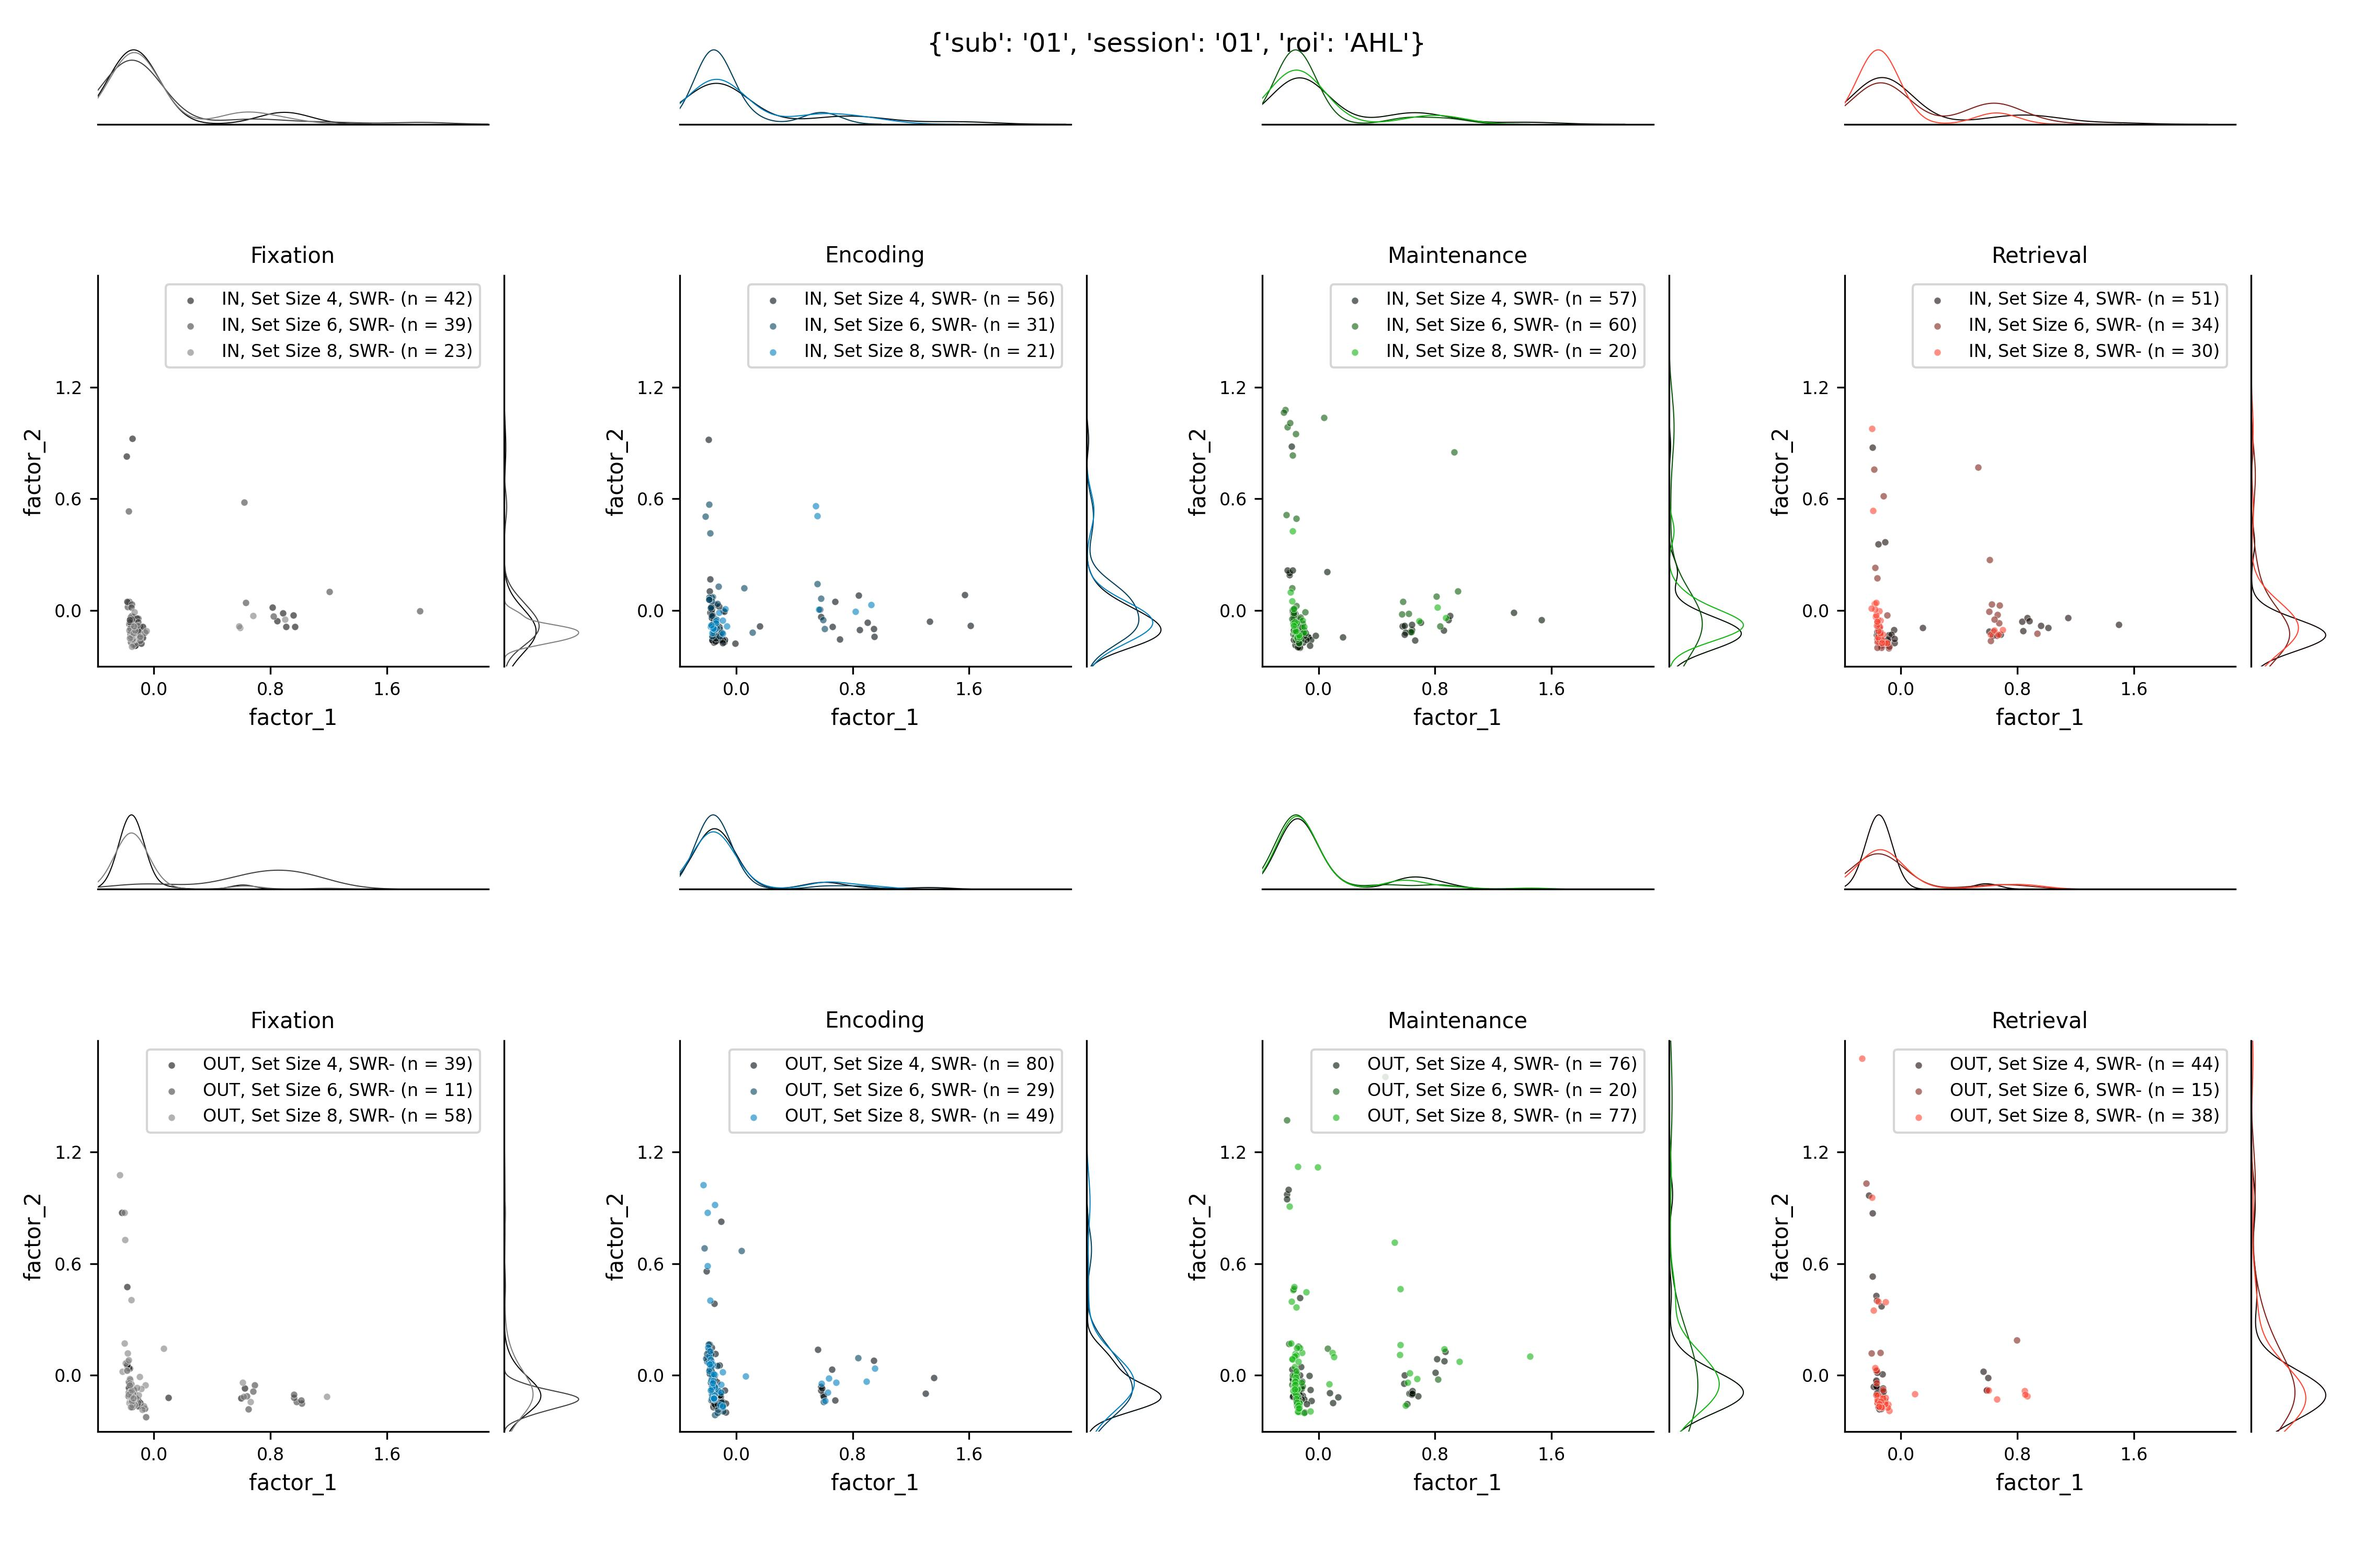
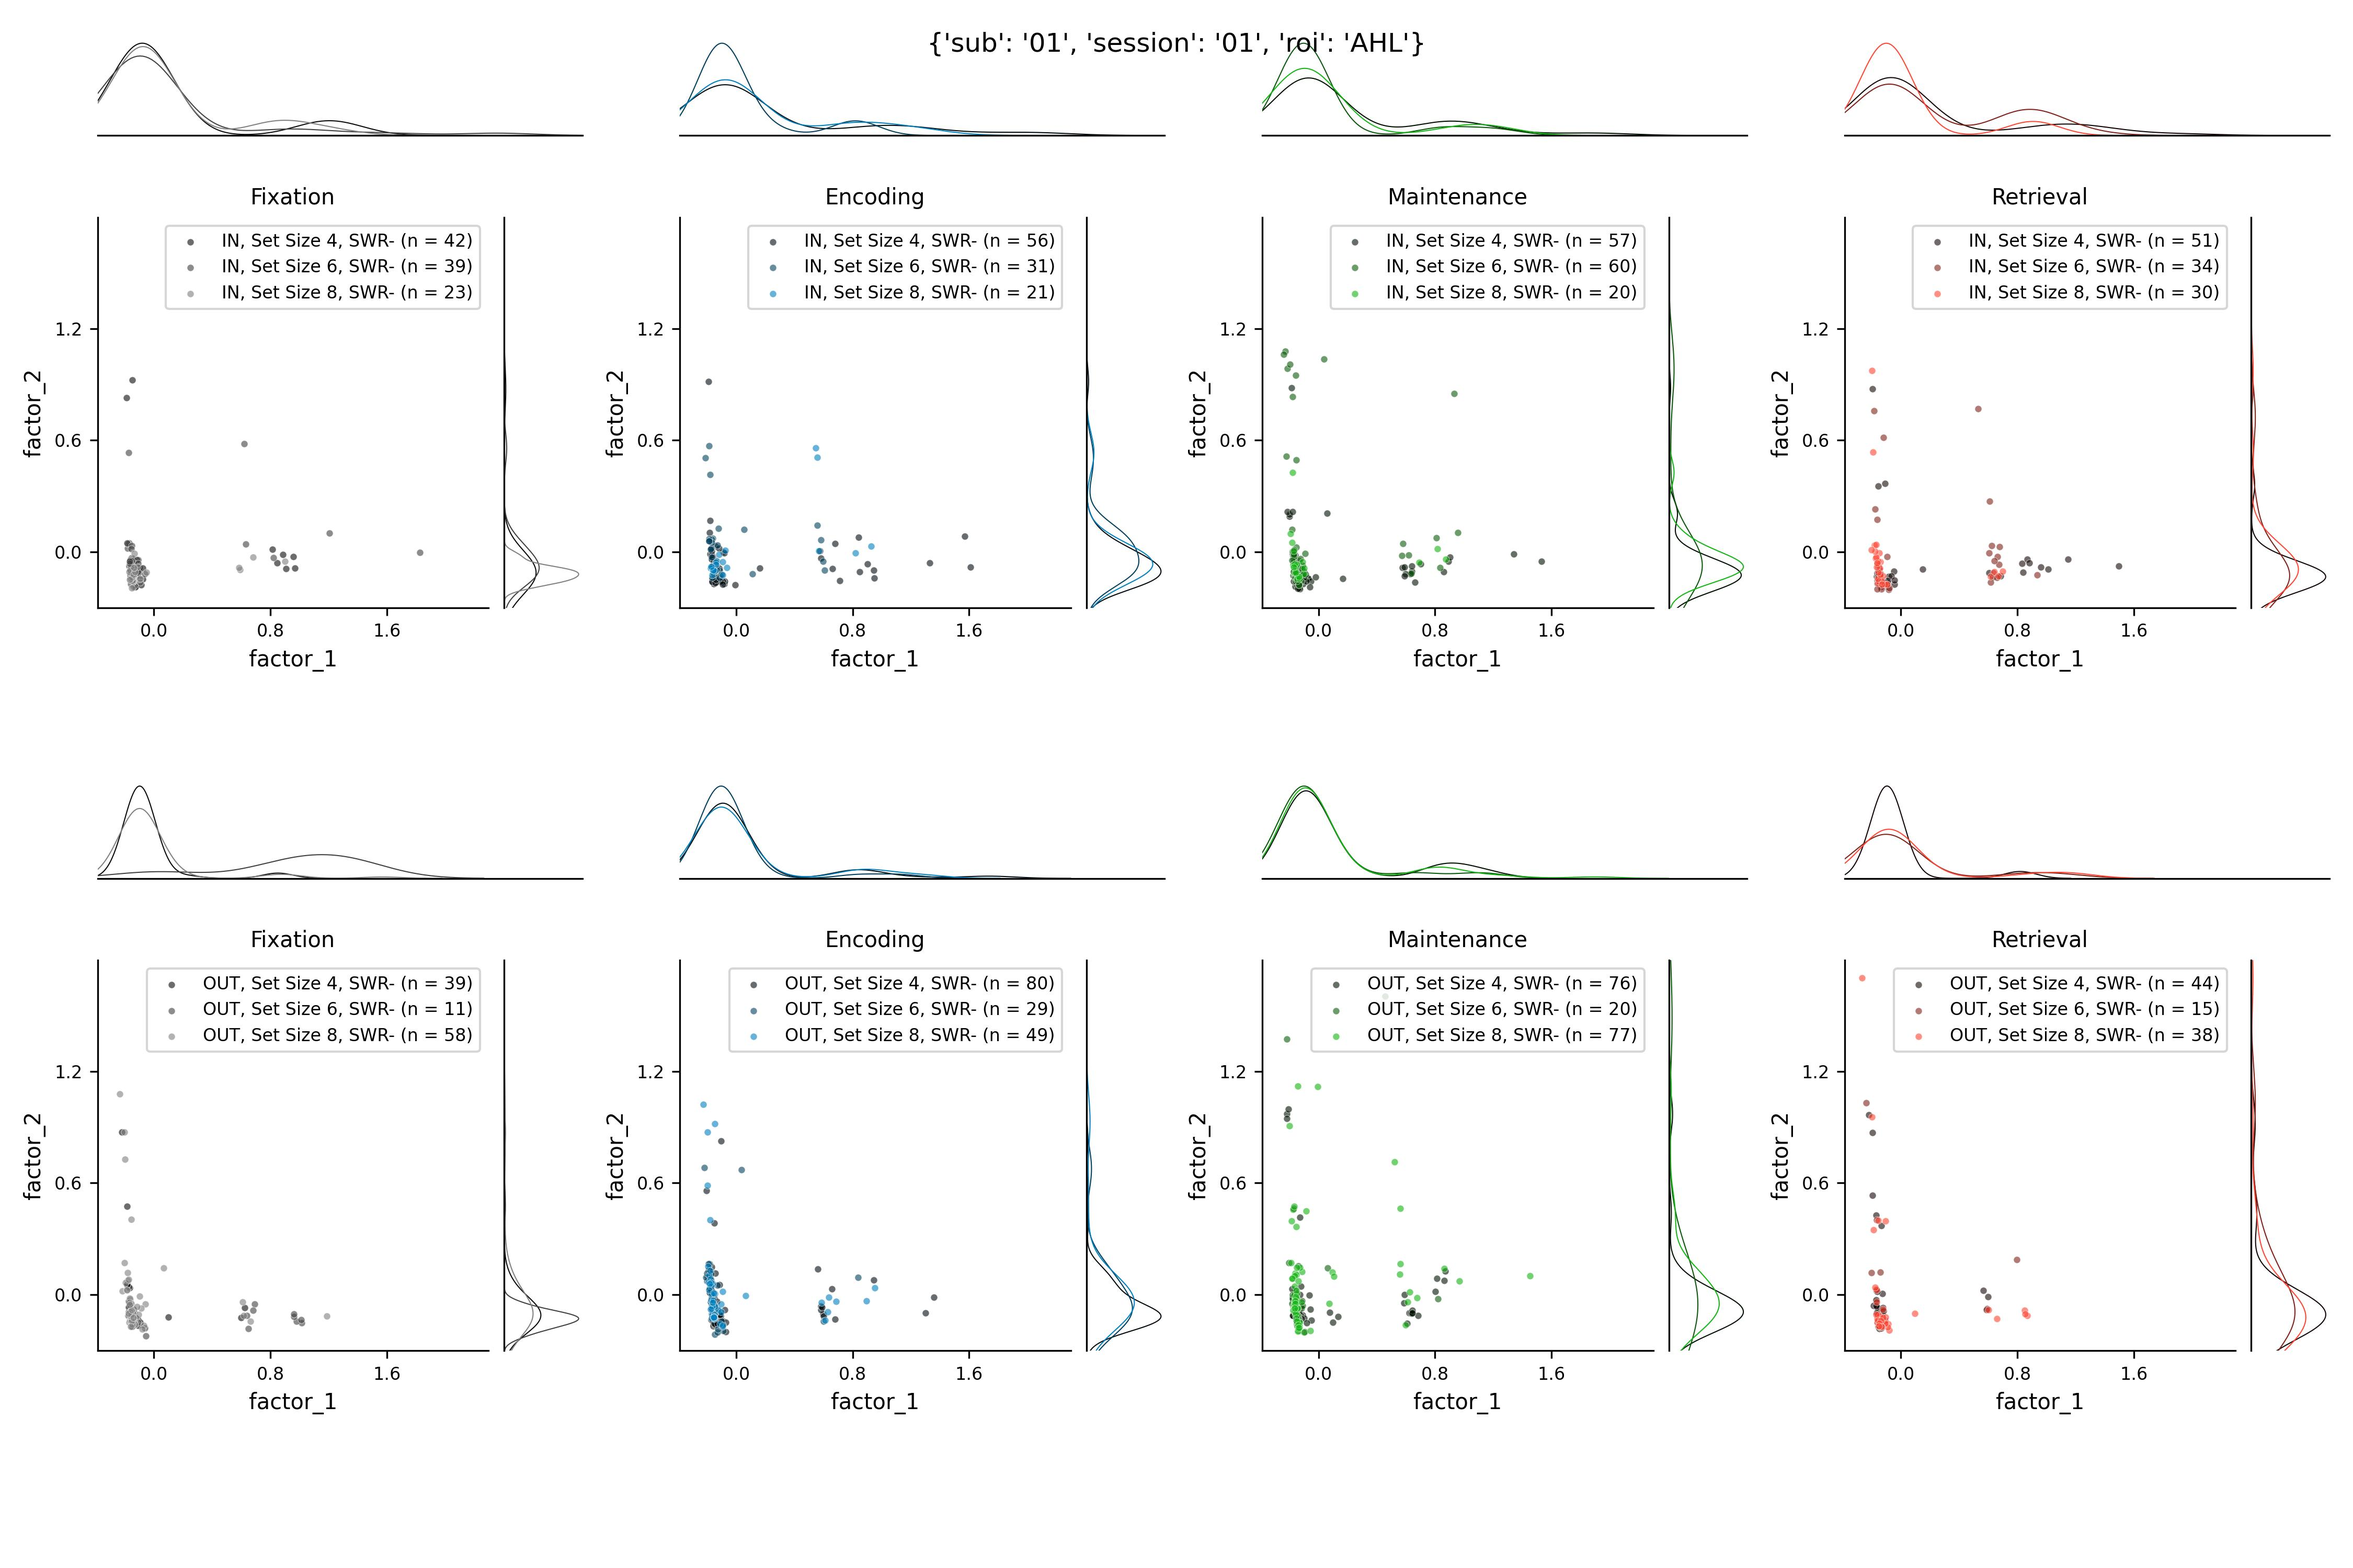
update-2024-07-11-04-53-15

diff --git a/scripts/NT/kde_phase_merge.py b/scripts/NT/kde_phase_merge.py
@@ -1,6 +1,6 @@
 #!./env/bin/python3
 # -*- coding: utf-8 -*-
-# Time-stamp: "2024-07-11 05:49:54 (ywatanabe)"
+# Time-stamp: "2024-07-11 04:51:19 (ywatanabe)"
 # /mnt/ssd/ripple-wm-code/scripts/NT/kde.py
 
 
@@ -12,24 +12,43 @@ This script does XYZ.
 """
 Imports
 """
+import os
+import re
 import sys
 
+import matplotlib
 import matplotlib.pyplot as plt
 import seaborn as sns
 import mngs
+from IPython.lib import deepreload
+
+with mngs.gen.suppress_output():
+    deepreload.reload(mngs)
+
+# mngs.gen.reload(mngs)
 import numpy as np
 import pandas as pd
+import torch
+import torch.nn as nn
+import torch.nn.functional as F
+from icecream import ic
+from natsort import natsorted
+from glob import glob
+from pprint import pprint
+import warnings
+from tqdm import tqdm
+import xarray as xr
 from scipy.stats import gaussian_kde
+import logging
 
-from mngs.plt.ax import (
-    get_global_xlim,
-    get_global_ylim,
-    sharex,
-    sharey,
-    add_marginal_ax,
-)
-import utils
+# sys.path = ["."] + sys.path
+from scripts import utils
+from scipy.stats import gaussian_kde
+from mpl_toolkits.axes_grid1 import make_axes_locatable
+import math
+
 from itertools import product
+from mngs.plt.ax import get_global_xlim, get_global_ylim, sharex, sharey
 
 """
 Warnings
@@ -49,6 +68,7 @@ Functions & Classes
 
 
 def calc_max_density(data):
+    # Calculate global KDE maxima for consistent scale in density plots
     max_density_x = 0
     max_density_y = 0
     for _data in data:
@@ -71,6 +91,18 @@ def calc_max_density(data):
     return max_density_x, max_density_y
 
 
+def add_marginal_axes(ax):
+    divider = make_axes_locatable(ax)
+
+    ax_marg_x = divider.append_axes("top", size="20%", pad=0.1)
+    ax_marg_x.set_box_aspect(0.2)
+
+    ax_marg_y = divider.append_axes("right", size="20%", pad=0.1)
+    ax_marg_y.set_box_aspect(0.2 ** (-1))
+
+    return ax_marg_x, ax_marg_y
+
+
 def cleanup_axes(ax, ax_marg_x, ax_marg_y, max_density_x, max_density_y):
     ax = mngs.plt.ax.set_n_ticks(ax)
     ax_marg_x = mngs.plt.ax.set_n_ticks(ax_marg_x)
@@ -89,7 +121,9 @@ def cleanup_axes(ax, ax_marg_x, ax_marg_y, max_density_x, max_density_y):
 
 
 def prepare_fig(nrows, ncols, figsize):
-    fig, axes = plt.subplots(nrows=nrows, ncols=ncols, figsize=figsize)
+    fig, axes = plt.subplots(
+        nrows=nrows, ncols=ncols, figsize=figsize  # , sharex=True, sharey=True
+    )
     axes_marg_x = np.full(axes.shape, np.nan).astype(object)
     axes_marg_y = np.full(axes.shape, np.nan).astype(object)
 
@@ -97,22 +131,98 @@ def prepare_fig(nrows, ncols, figsize):
         for jj in range(axes.shape[1]):
             ax = axes[ii, jj]
             ax.set_box_aspect(1)
-            ax_marg_x = add_marginal_ax(ax, place="top", size=0.2, pad=0.1)
-            ax_marg_y = add_marginal_ax(ax, place="right", size=0.2, pad=0.1)
+            ax_marg_x, ax_marg_y = add_marginal_axes(ax)
             axes_marg_x[ii, jj] = ax_marg_x
             axes_marg_y[ii, jj] = ax_marg_y
 
     return fig, axes, axes_marg_x, axes_marg_y
 
 
+def custom_joint_plot(data, nrows, ncols, sample_type, figsize=(15, 10)):
+    # Data is expected to be listed list.
+    assert mngs.gen.is_listed_X(data, list)
+
+    # Calc lims of marginal axes
+    max_density_x, max_density_y = calc_max_density(data)
+
+    # Main
+    fig, axes, axes_marg_x, axes_marg_y = prepare_fig(nrows, ncols, figsize)
+    for i, (ax, ax_marg_x, ax_marg_y) in enumerate(
+        zip(axes.flat, axes_marg_x.flat, axes_marg_y.flat)
+    ):
+        if i >= len(data):
+            ax.axis("off")
+            continue
+
+        for i_dd, dd in enumerate(data[i]):
+
+            # Base Color
+            base_color = np.array(CC[CONFIG.PHASES[dd.phase.iloc[0]].color])
+            # Gradient color
+            n_queries = len(data[i])
+            ss = dd["set_size"].iloc[0]
+            n_split = n_queries * 4
+            i_color = {4: n_split - 1, 6: n_split // 2, 8: 0}[ss]
+            color = mngs.plt.gradiate_color(base_color, n=n_split)[i_color]
+
+            # Label and Title
+            match_str = {1: "IN", 2: "OUT"}[dd["match"].iloc[0]]
+            setsize_str = {4: "Set Size 4", 6: "Set Size 6", 8: "Set Size 8"}[
+                dd["set_size"].iloc[0]
+            ]
+            label = f"{match_str}, {setsize_str}, {sample_type}"
+            ax.set_title(f"{dd['phase'].iloc[0]}")
+
+            # Main
+            # only mask scatter as kde needs NT values
+            if sample_type == "all":
+                indi = np.ones(len(dd)).astype(bool)
+            if "SWR" in sample_type:
+                indi = dd["within_ripple"]
+
+            nn = indi.sum()
+            label += f" (n = {nn:,})"
+
+            sns.scatterplot(
+                data=dd[indi],
+                x="factor_1",
+                y="factor_2",
+                ax=ax,
+                s=10,
+                color=color,
+                alpha=0.6,
+                label=label,
+            )
+
+            for _xy, _ax_marg, _vertical in zip(
+                ["factor_1", "factor_2"], [ax_marg_x, ax_marg_y], [False, True]
+            ):
+                sns.kdeplot(
+                    data=dd[indi],
+                    x=_xy,
+                    fill=False,
+                    ax=_ax_marg,
+                    color=color,
+                    common_norm=True,
+                    vertical=_vertical,
+                    linewidth=0.5,
+                )
+
+        cleanup_axes(ax, ax_marg_x, ax_marg_y, max_density_x, max_density_y)
+
+    plt.tight_layout()
+
+    return fig, axes, axes_marg_x, axes_marg_y
+
+
 def NT2df(NT, trials_info):
     dfs = []
-
     # Conditonal data
     conditions = list(
         mngs.gen.yield_grids({"match": [1, 2], "set_size": [4, 6, 8]})
     )
 
+    indi_all = []
     for i_cc, cc in enumerate(conditions):
         indi = mngs.pd.find_indi(trials_info, cc)
         indi = np.array(indi[indi].index)
@@ -154,10 +264,10 @@ def NT2df(NT, trials_info):
 
 
 def add_ripple_tag(df, ripple):
+    # ripple
     ripple["i_trial"] = ripple.index - 1
     ripple.set_index("i_trial", inplace=True)
 
-    # bin
     ripple["start_bin"] = np.floor(
         ripple.start_s / CONFIG.GPFA.BIN_SIZE_MS * 1e3
     ).astype(int)
@@ -179,93 +289,22 @@ def add_ripple_tag(df, ripple):
         )
         indi = indi_trial * indi_bin
 
-        assert 0 < indi.sum()
+        # indi = ((rip.start_bin <= df.i_bin) * (df.i_bin <= rip.end_bin)) * (
+        #     df.i_trial == rip.name
+        # )
+        # n_bins = rip.end_bin - rip.start_bin
+
+        assert 0 < indi.sum()  # <= n_bins + 1
+        # assert indi.sum() == 1
+        # print(indi.sum())
 
         df.loc[indi, "within_ripple"] = True
-
     return df
-
-
-def custom_joint_plot(data, nrows, ncols, sample_type, figsize=(15, 10)):
-    # Data is expected to be listed list.
-    assert mngs.gen.is_listed_X(data, list)
-
-    # Calc lims of marginal axes
-    max_density_x, max_density_y = calc_max_density(data)
-
-    # Main
-    fig, axes, axes_marg_x, axes_marg_y = prepare_fig(nrows, ncols, figsize)
-    for i, (ax, ax_marg_x, ax_marg_y) in enumerate(
-        zip(axes.flat, axes_marg_x.flat, axes_marg_y.flat)
-    ):
-        if i >= len(data):
-            ax.axis("off")
-            continue
-
-        for i_dd, dd in enumerate(data[i]):
-            # Base Color
-            base_color = np.array(CC[CONFIG.PHASES[dd.phase.iloc[0]].color])
-
-            # Gradient color
-            n_queries = len(data[i])
-            ss = dd["set_size"].iloc[0]
-            n_split = n_queries * 4
-            i_color = {4: n_split - 1, 6: n_split // 2, 8: 0}[ss]
-            color = mngs.plt.gradiate_color(base_color, n=n_split)[i_color]
-
-            # Label and Title
-            match_str = {1: "IN", 2: "OUT"}[dd["match"].iloc[0]]
-            setsize_str = {4: "Set Size 4", 6: "Set Size 6", 8: "Set Size 8"}[
-                dd["set_size"].iloc[0]
-            ]
-            label = f"{match_str}, {setsize_str}, {sample_type}"
-            ax.set_title(f"{dd['phase'].iloc[0]}")
-
-            # Main
-            if sample_type == "all":
-                indi = np.ones(len(dd)).astype(bool)
-            if "SWR" in sample_type:
-                indi = dd["within_ripple"]
-
-            nn = indi.sum()
-            label += f" (n = {nn:,})"
-
-            sns.scatterplot(
-                data=dd[indi],
-                x="factor_1",
-                y="factor_2",
-                ax=ax,
-                s=10,
-                color=color,
-                alpha=0.6,
-                label=label,
-            )
-
-            for _xy, _ax_marg, _vertical in zip(
-                ["factor_1", "factor_2"], [ax_marg_x, ax_marg_y], [False, True]
-            ):
-                sns.kdeplot(
-                    data=dd[indi],
-                    x=_xy,
-                    fill=False,
-                    ax=_ax_marg,
-                    color=color,
-                    common_norm=True,
-                    vertical=_vertical,
-                    linewidth=0.5,
-                )
-
-        cleanup_axes(ax, ax_marg_x, ax_marg_y, max_density_x, max_density_y)
-
-    plt.tight_layout()
-
-    return fig, axes, axes_marg_x, axes_marg_y
 
 
 def kde_plot(lpath_NT, sample_type, znorm=False, symlog=False, unbias=False):
     # Loading
     NT = mngs.io.load(lpath_NT)
-
     # Takes the first two factors
     NT = NT[:, :2, :]
 
@@ -340,6 +379,7 @@ def kde_plot(lpath_NT, sample_type, znorm=False, symlog=False, unbias=False):
 
 def main():
     for znorm, symlog, unbias in product(
+        # [False, True], [False, True], [False, True]
         [False],
         [False],
         [False],
@@ -353,8 +393,7 @@ def main():
         for ca1_region in CONFIG.ROI.CA1:
             lpath_NT = mngs.gen.replace(LPATH_EXP, ca1_region)
             parsed = utils.parse_lpath(lpath_NT)
-
-            if parsed not in CONFIG.ROI.CA1:
+            if not parsed in CONFIG.ROI.CA1:
                 continue
 
             cache = mngs.gen.listed_dict()
@@ -374,7 +413,7 @@ def main():
                 cache["axes_marg_x"].append(axes_marg_x)
                 cache["axes_marg_y"].append(axes_marg_y)
 
-            # Share xlim and ylim
+            # xlim and ylim
             # main axes
             xlim_main = get_global_xlim(*cache["axes"])
             ylim_main = get_global_ylim(*cache["axes"])
@@ -385,10 +424,35 @@ def main():
             sharex(*cache["axes_marg_x"], xlim=xlim_main)
             sharey(*cache["axes_marg_y"], ylim=ylim_main)
 
+            # # marginal axes, height
+            # ylim_marg_x = get_global_ylim(*cache["axes_marg_x"])
+            # xlim_marg_y = get_global_xlim(*cache["axes_marg_y"])
+            # height = max(max(ylim_marg_x), max(xlim_marg_y))
+            # sharey(*cache["axes_marg_x"], ylim=(0, height))
+            # sharex(*cache["axes_marg_y"], xlim=(0, height))
+
             for fig, spath_fig in zip(cache["fig"], cache["spath_fig"]):
                 mngs.io.save(fig, spath_fig, from_cwd=False, dry_run=False)
 
             plt.close()
+    # # xlim and ylim
+    # # main axes
+    # xlim_main = get_global_xlim(axes)
+    # ylim_main = get_global_ylim(axes)
+    # sharex(axes, xlim=xlim_main)
+    # sharey(axes, ylim=ylim_main)
+
+    # # marginal axes
+    # sharex(axes_marg_x, xlim=xlim_main)
+    # sharey(axes_marg_y, ylim=ylim_main)
+
+    # # marginal axes, height
+    # ylim_marg_x = get_global_ylim(axes_marg_x)
+    # xlim_marg_y = get_global_xlim(axes_marg_y)
+    # height = max(max(ylim_marg_x), max(xlim_marg_y))
+    # sharey(axes_marg_x, ylim=(0, height))
+    # sharex(axes_marg_y, xlim=(0, height))
+    # mngs.io.save(fig, spath_fig, from_cwd=False, dry_run=False)
 
 
 if __name__ == "__main__":
@@ -405,6 +469,8 @@ if __name__ == "__main__":
         plt,
         verbose=False,
         agg=True,
+        # font_size_axis_label=6,
+        # font_size_title=6,
         alpha=0.3,
         fig_scale=2,
     )

diff --git a/README.md b/README.md
@@ -8,7 +8,7 @@
 ./scripts/demographic/all.sh
 ./scripts/ripple/all.sh
 ./scripts/NT/all.sh
-./scripts/NT/kde_predefined_axes.py
+./scripts/NT/kde.py
 ```
 
 #### Figures
